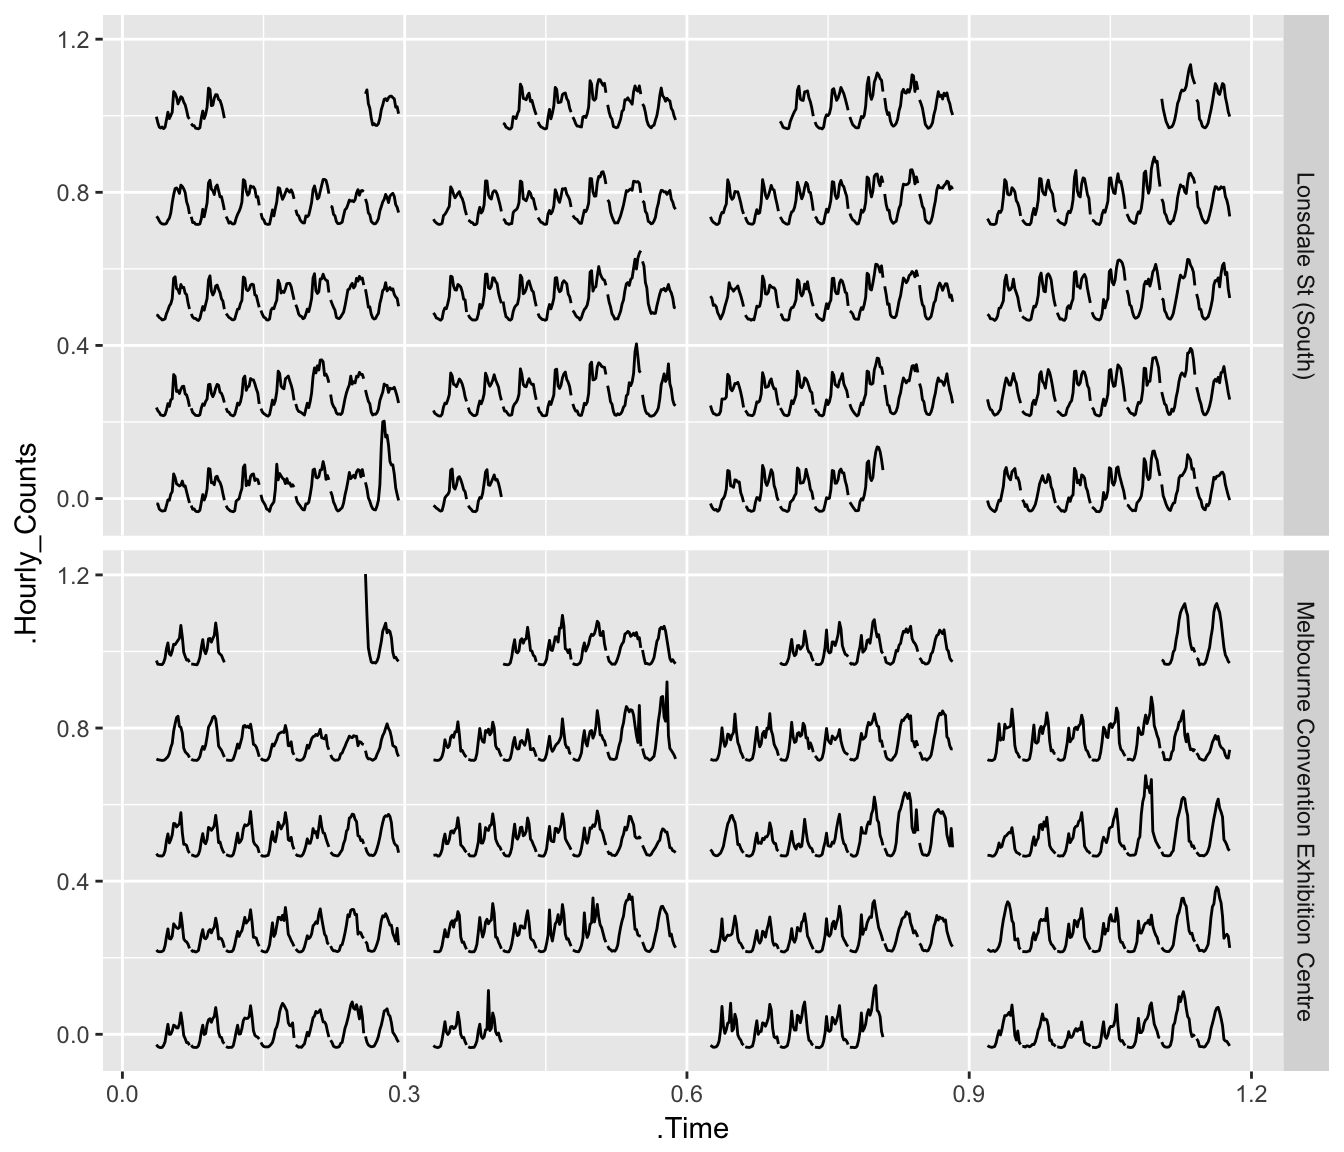
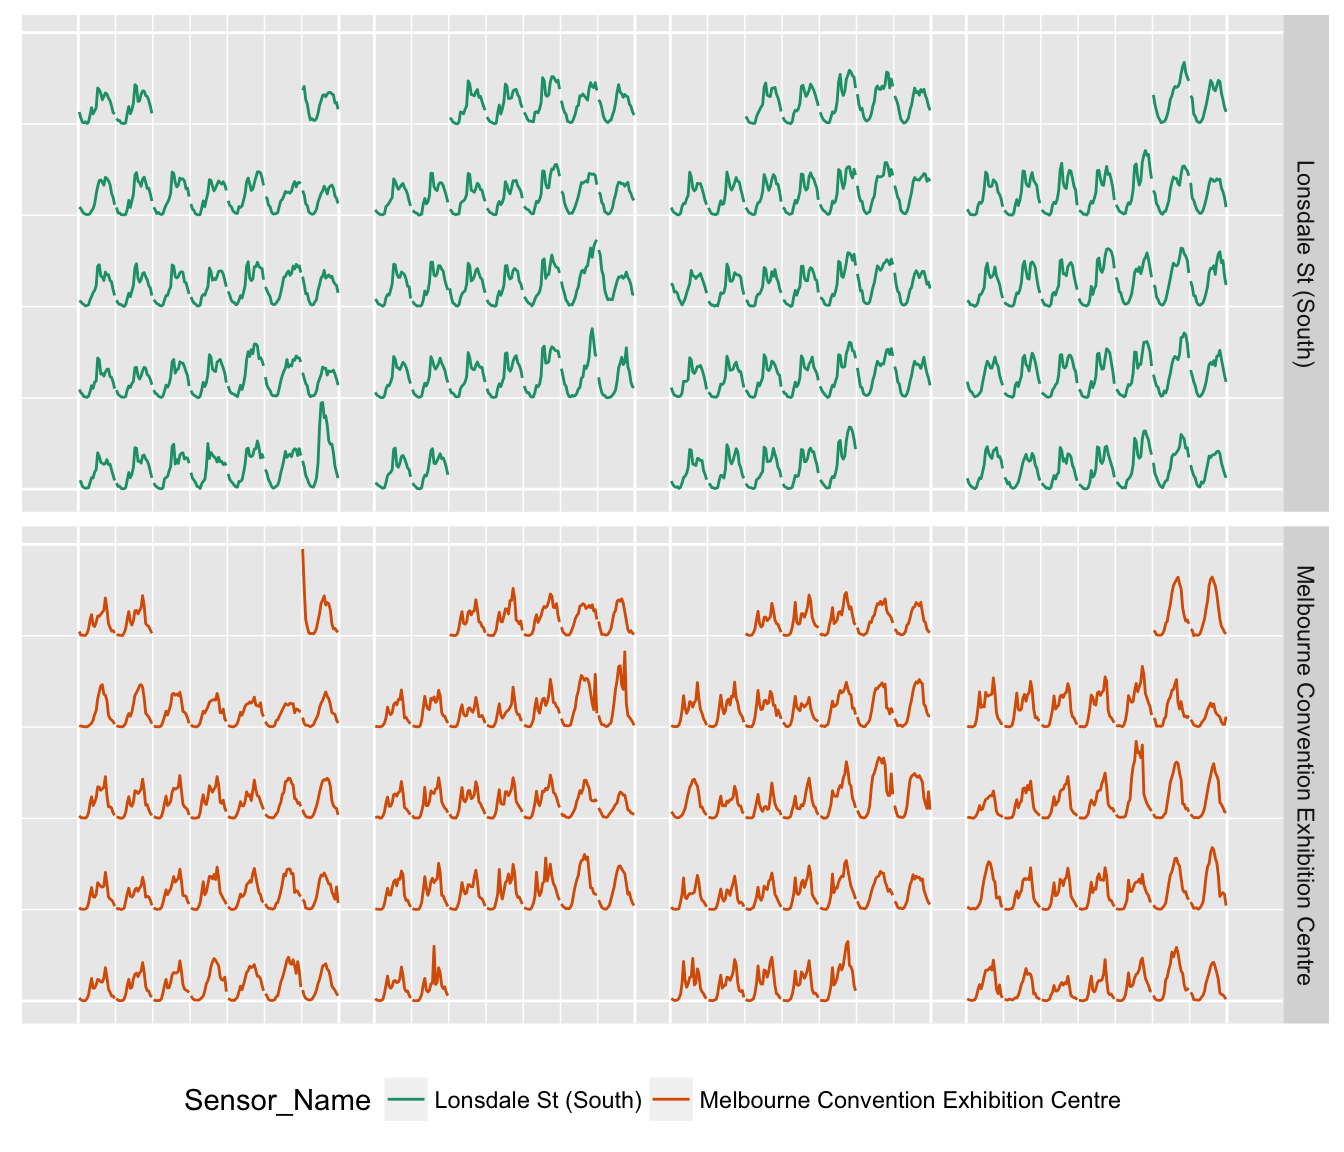
Let prettify support grouped_df

Changed region(s): [[0.0, 0.0, 1.0, 1.0], [0.2188, 0.0, 0.3125, 0.125]]

diff --git a/docs/articles/frame-calendar.html b/docs/articles/frame-calendar.html
@@ -111,7 +111,7 @@ centre_calendar &lt;-<span class="st"> </span>centre <span class="op">%&gt;%</sp
 <span class="st">  </span><span class="kw">geom_line</span>()
 p1</code></pre></div>
 <p><img src="frame-calendar_files/figure-html/centre-plot-1.png" width="672"></p>
-<p>To make the plot more accessible and informative, we provide another function <code><a href="../reference/frame-calendar.html">prettify()</a></code> to go hand in hand with <code><a href="../reference/frame-calendar.html">frame_calendar()</a></code>. It takes a <code>ggplot</code> object and gives sensible breaks and labels. It can be noted that the calendar-based graphic depicts time of day, day of week, and other calendar effects like public holiday in a clear manner. (NOTE: <code><a href="../reference/frame-calendar.html">prettify()</a></code> works better with line and point geoms at this stage.)</p>
+<p>To make the plot more accessible and informative, we provide another function <code><a href="../reference/frame-calendar.html">prettify()</a></code> to go hand in hand with <code><a href="../reference/frame-calendar.html">frame_calendar()</a></code>. It takes a <code>ggplot</code> object and gives sensible breaks and labels. It can be noted that the calendar-based graphic depicts time of day, day of week, and other calendar effects like public holiday in a clear manner.</p>
 <div class="sourceCode"><pre class="sourceCode r"><code class="sourceCode r"><span class="kw"><a href="../reference/frame-calendar.html">prettify</a></span>(p1)</code></pre></div>
 <p><img src="frame-calendar_files/figure-html/centre-more-1.png" width="672"></p>
 </div>
@@ -162,10 +162,13 @@ p4 &lt;-<span class="st"> </span><span class="kw">ggplot</span>(two_sensors_cale
 <div class="sourceCode"><pre class="sourceCode r"><code class="sourceCode r">grped_calendar &lt;-<span class="st"> </span>two_sensors_df <span class="op">%&gt;%</span><span class="st"> </span>
 <span class="st">  </span><span class="kw"><a href="http://dplyr.tidyverse.org/reference/group_by.html">group_by</a></span>(Sensor_Name) <span class="op">%&gt;%</span>
 <span class="st">  </span><span class="kw"><a href="../reference/frame-calendar.html">frame_calendar</a></span>(<span class="dt">x =</span> Time, <span class="dt">y =</span> Hourly_Counts, <span class="dt">date =</span> Date, <span class="dt">ncol =</span> <span class="dv">4</span>)
-grped_calendar <span class="op">%&gt;%</span>
+p5 &lt;-<span class="st"> </span>grped_calendar <span class="op">%&gt;%</span>
 <span class="st">  </span><span class="kw">ggplot</span>(<span class="kw">aes</span>(<span class="dt">x =</span> .Time, <span class="dt">y =</span> .Hourly_Counts, <span class="dt">group =</span> Date)) <span class="op">+</span>
-<span class="st">  </span><span class="kw">geom_line</span>() <span class="op">+</span>
-<span class="st">  </span><span class="kw">facet_grid</span>(Sensor_Name <span class="op">~</span><span class="st"> </span>.)</code></pre></div>
+<span class="st">  </span><span class="kw">geom_line</span>(<span class="kw">aes</span>(<span class="dt">colour =</span> Sensor_Name)) <span class="op">+</span>
+<span class="st">  </span><span class="kw">facet_grid</span>(Sensor_Name <span class="op">~</span><span class="st"> </span>.) <span class="op">+</span>
+<span class="st">  </span><span class="kw">scale_color_brewer</span>(<span class="dt">palette =</span> <span class="st">"Dark2"</span>) <span class="op">+</span>
+<span class="st">  </span><span class="kw">theme</span>(<span class="dt">legend.position =</span> <span class="st">"bottom"</span>)
+<span class="kw"><a href="../reference/frame-calendar.html">prettify</a></span>(p5, <span class="dt">label =</span> <span class="ot">NULL</span>)</code></pre></div>
 <p><img src="frame-calendar_files/figure-html/ped-facet-1.png" width="672"></p>
 </div>
 <div id="more-geoms" class="section level2">
@@ -177,10 +180,10 @@ grped_calendar <span class="op">%&gt;%</span>
 centre_lagged_calendar &lt;-<span class="st"> </span>centre_lagged <span class="op">%&gt;%</span><span class="st"> </span>
 <span class="st">  </span><span class="kw"><a href="../reference/frame-calendar.html">frame_calendar</a></span>(<span class="dt">x =</span> Hourly_Counts, <span class="dt">y =</span> Lagged_Counts, <span class="dt">date =</span> Date,
     <span class="dt">calendar =</span> <span class="st">"daily"</span>)
-p3 &lt;-<span class="st"> </span>centre_lagged_calendar <span class="op">%&gt;%</span>
+p6 &lt;-<span class="st"> </span>centre_lagged_calendar <span class="op">%&gt;%</span>
 <span class="st">  </span><span class="kw">ggplot</span>(<span class="kw">aes</span>(<span class="dt">x =</span> .Hourly_Counts, <span class="dt">y =</span> .Lagged_Counts, <span class="dt">group =</span> Date)) <span class="op">+</span>
 <span class="st">  </span><span class="kw">geom_point</span>(<span class="dt">size =</span> <span class="fl">0.5</span>)
-<span class="kw"><a href="../reference/frame-calendar.html">prettify</a></span>(p3, <span class="dt">size =</span> <span class="dv">3</span>)</code></pre></div>
+<span class="kw"><a href="../reference/frame-calendar.html">prettify</a></span>(p6, <span class="dt">size =</span> <span class="dv">3</span>)</code></pre></div>
 <pre><code>## Warning: Removed 1 rows containing missing values (geom_point).</code></pre>
 <p><img src="frame-calendar_files/figure-html/ped-lag-1.png" width="768"></p>
 <p>Furthermore, the argument <code>y</code> can take multiple variable names in combination with <code><a href="http://dplyr.tidyverse.org/reference/vars.html">vars()</a></code>. The rectangular glyphs arranged on a “weekly” calendar are plotted to illustrate the usage of the multiple <code>y</code>s and the differences between sensors. The long data format is firstly converted to the wide format using <code><a href="http://www.rdocumentation.org/packages/tidyr/topics/spread">tidyr::spread()</a></code> <span class="citation">(Wickham <a href="#ref-wickham2014tidy">2014</a>)</span>. These two sensors are variables rather than values now, and hence can be passed to <code>y</code>.</p>
@@ -211,14 +214,14 @@ sensors_wide_calendar &lt;-<span class="st"> </span>two_sensors_wide <span class
 ## # ... with 6 more variables: Diff &lt;int&gt;, More &lt;chr&gt;, Date &lt;date&gt;,
 ## #   .Time &lt;dbl&gt;, .Centre &lt;dbl&gt;, .Lonsdale &lt;dbl&gt;</code></pre>
 <p>Having multiple <code>y</code>s makes it a little easier when mapping to some geoms that contain the <code>ymin</code> and <code>ymax</code> arguments, such as <code>geom_rect</code> and <code>geom_ribbon</code>. Interestingly, Lonsdale Street is busier than the Convention Centre in the evening, vice versa in the day time.</p>
-<div class="sourceCode"><pre class="sourceCode r"><code class="sourceCode r">p5 &lt;-<span class="st"> </span>sensors_wide_calendar <span class="op">%&gt;%</span>
+<div class="sourceCode"><pre class="sourceCode r"><code class="sourceCode r">p7 &lt;-<span class="st"> </span>sensors_wide_calendar <span class="op">%&gt;%</span>
 <span class="st">  </span><span class="kw">ggplot</span>() <span class="op">+</span>
 <span class="st">  </span><span class="kw">geom_rect</span>(<span class="kw">aes</span>(<span class="dt">xmin =</span> .Time, <span class="dt">xmax =</span> .Time <span class="op">+</span><span class="st"> </span><span class="fl">0.005</span>,
     <span class="dt">ymin =</span> .Lonsdale, <span class="dt">ymax =</span> .Centre, <span class="dt">fill =</span> More
   )) <span class="op">+</span>
 <span class="st">  </span><span class="kw">scale_fill_brewer</span>(<span class="dt">palette =</span> <span class="st">"Dark2"</span>) <span class="op">+</span>
 <span class="st">  </span><span class="kw">theme</span>(<span class="dt">legend.position =</span> <span class="st">"bottom"</span>)
-<span class="kw"><a href="../reference/frame-calendar.html">prettify</a></span>(p5)</code></pre></div>
+<span class="kw"><a href="../reference/frame-calendar.html">prettify</a></span>(p7)</code></pre></div>
 <p><img src="frame-calendar_files/figure-html/ped-daily-plot-1.png" width="672"></p>
 <p>Can we plot a heatmap using <code><a href="../reference/frame-calendar.html">frame_calendar()</a></code> too? Yep, either <code>x</code> or <code>y</code> can be given as 1 implying identity across days. If both <code>x</code> and <code>y</code> are given as 1, only calendar grids are returned. A heatmap therefore can be drawn.</p>
 <div class="sourceCode"><pre class="sourceCode r"><code class="sourceCode r">centre_daily &lt;-<span class="st"> </span>centre <span class="op">%&gt;%</span>
@@ -237,10 +240,11 @@ centre_max_calendar &lt;-<span class="st"> </span>centre_daily <span class="op">
 ## 4       1175 2017-01-04 0.2288462 0.8158120
 ## 5       1134 2017-01-05 0.3057692 0.8158120
 ## 6       1008 2017-01-06 0.3826923 0.8158120</code></pre>
-<div class="sourceCode"><pre class="sourceCode r"><code class="sourceCode r">centre_max_calendar <span class="op">%&gt;%</span>
+<div class="sourceCode"><pre class="sourceCode r"><code class="sourceCode r">p8 &lt;-<span class="st"> </span>centre_max_calendar <span class="op">%&gt;%</span>
 <span class="st">  </span><span class="kw">ggplot</span>(<span class="kw">aes</span>(<span class="dt">x =</span> .x, <span class="dt">y =</span> .y)) <span class="op">+</span>
 <span class="st">  </span><span class="kw">geom_tile</span>(<span class="kw">aes</span>(<span class="dt">fill =</span> Max_Counts), <span class="dt">colour =</span> <span class="st">"grey50"</span>) <span class="op">+</span>
-<span class="st">  </span><span class="kw"><a href="http://www.rdocumentation.org/packages/viridis/topics/scale_viridis">scale_fill_viridis</a></span>()</code></pre></div>
+<span class="st">  </span><span class="kw"><a href="http://www.rdocumentation.org/packages/viridis/topics/scale_viridis">scale_fill_viridis</a></span>()
+<span class="kw"><a href="../reference/frame-calendar.html">prettify</a></span>(p8, <span class="dt">label =</span> <span class="ot">NULL</span>)</code></pre></div>
 <p><img src="frame-calendar_files/figure-html/ped-max-1.png" width="672"></p>
 </div>
 <div id="summary" class="section level2">

diff --git a/docs/reference/frame-calendar.html b/docs/reference/frame-calendar.html
@@ -226,11 +226,11 @@ to have their individual scales. For more details, see <code><a href='https://cr
        <span class='kw'>x</span> <span class='kw'>=</span> <span class='no'>Time</span>, <span class='kw'>y</span> <span class='kw'>=</span> <span class='no'>Hourly_Counts</span>, <span class='kw'>date</span> <span class='kw'>=</span> <span class='no'>Date</span>, <span class='kw'>sunday</span> <span class='kw'>=</span> <span class='fl'>TRUE</span>
      )
 
-   <span class='no'>grped_calendar</span> <span class='kw'>%&gt;%</span>
+   <span class='no'>p2</span> <span class='kw'>&lt;-</span> <span class='no'>grped_calendar</span> <span class='kw'>%&gt;%</span>
      <span class='fu'>ggplot</span>(<span class='fu'>aes</span>(<span class='kw'>x</span> <span class='kw'>=</span> <span class='no'>.Time</span>, <span class='kw'>y</span> <span class='kw'>=</span> <span class='no'>.Hourly_Counts</span>, <span class='kw'>group</span> <span class='kw'>=</span> <span class='no'>Date</span>)) +
      <span class='fu'>geom_line</span>() +
-     <span class='fu'>facet_wrap</span>(~ <span class='no'>Sensor_Name</span>, <span class='kw'>nrow</span> <span class='kw'>=</span> <span class='fl'>2</span>)</div><div class='img'><img src='frame-calendar-2.png' alt='' width='700' height='432.632880098887' /></div><div class='input'>   # prettify() not working for group_by
-
+     <span class='fu'>facet_wrap</span>(~ <span class='no'>Sensor_Name</span>, <span class='kw'>nrow</span> <span class='kw'>=</span> <span class='fl'>2</span>)
+   <span class='fu'>prettify</span>(<span class='no'>p2</span>)</div><div class='img'><img src='frame-calendar-2.png' alt='' width='700' height='432.632880098887' /></div><div class='input'>
 </div></pre>
   </div>
   <div class="col-md-3 hidden-xs hidden-sm" id="sidebar">
